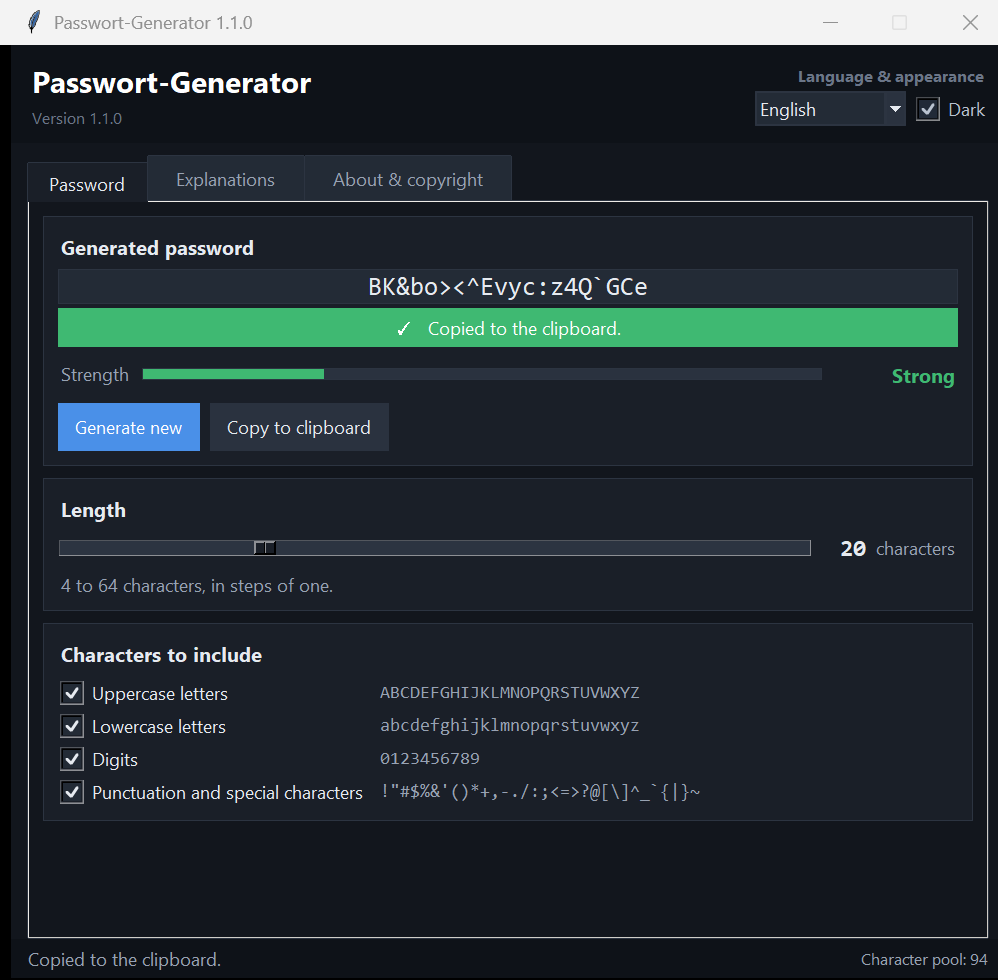
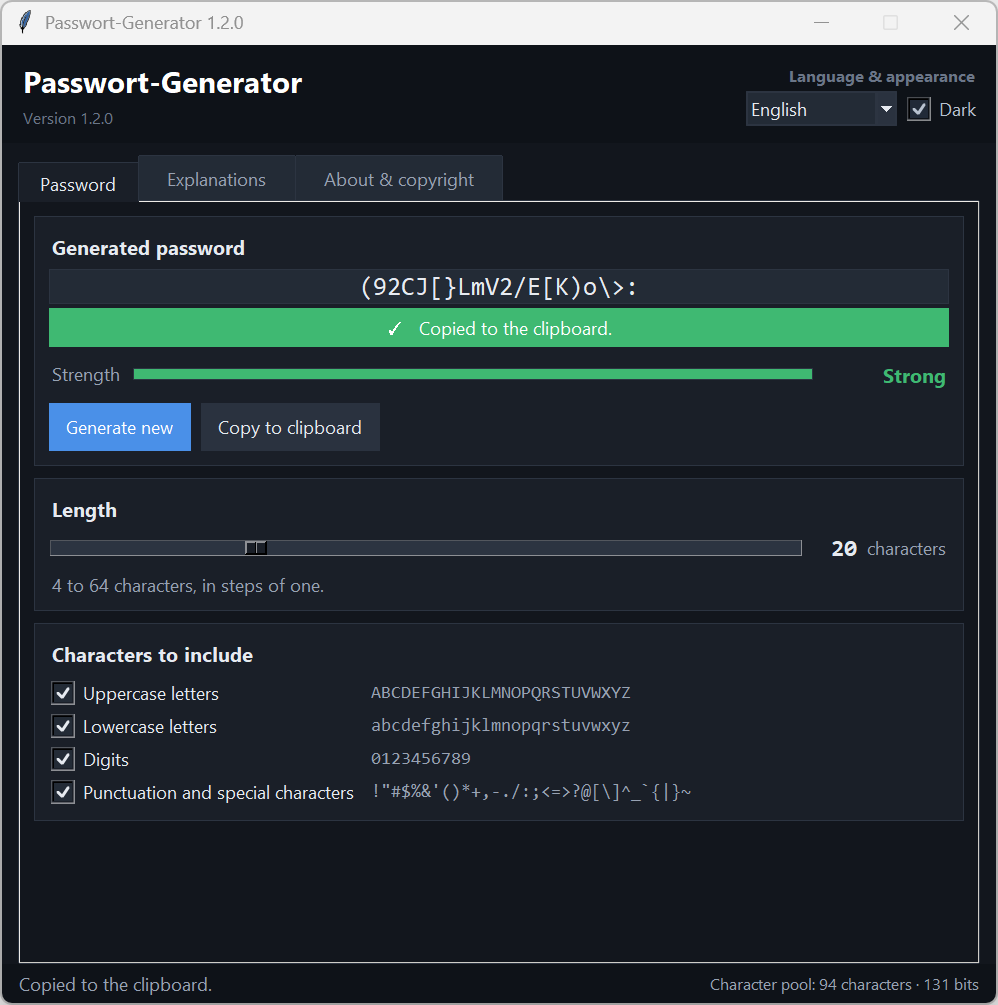
Stärkeanzeige rechnet in Bit
Bisher richtete sich die Anzeige allein nach der Länge. Grün begann bei 11
Zeichen - unabhängig davon, aus wie vielen Zeichen gewürfelt wurde. Elf
Ziffern sind aber nur 37 Bit und binnen Stunden durchprobiert, während elf
Zeichen aus allen vier Gruppen 72 Bit ergeben. Dieselbe grüne Zusage deckte
damit 37 bis 105 Bit ab.

Gemessen wird jetzt der Zufall im Passwort: Länge mal Logarithmus des
Zeichenvorrats. Rot unter 55 Bit, gelb bis 70 Bit, grün darüber. Die Grenzen
sind so gewählt, dass bei allen vier angehakten Gruppen dieselben Längen
herauskommen wie vorher - rot bis 8, gelb bei 9 und 10, grün ab 11. Nur
kleine Zeichenvorräte werden abgewertet.

Dabei fiel ein Fehler auf: Die Stärke wurde nur vom Schieberegler
aufgefrischt. Wer Haken wegnahm, bekam weiter die alte Bewertung zu sehen,
obwohl das Passwort schwächer wurde. Das erledigt jetzt eine Stelle, in die
beide hineinrufen.

Die Fußzeile nennt neben dem Zeichenvorrat die erreichten Bit, und der
Balken folgt ihnen statt der Länge - bei 11 Zeichen stand er bisher auf 12
Prozent und leuchtete trotzdem grün.

Changed region(s): [[0.0, 0.0, 1.0, 1.0], [0.3727, 0.6735, 0.6834, 0.8265], [0.8076, 0.0, 0.8387, 0.0306]]

diff --git a/tests/test_passwoerter.py b/tests/test_passwoerter.py
@@ -2,7 +2,11 @@
 
 from __future__ import annotations
 
+import math
+
 import pytest
+
+ALLE = ("gross", "klein", "ziffern", "sonder")
 
 
 def test_laenge_stimmt(pg):
@@ -60,11 +64,47 @@ def test_passwoerter_wiederholen_sich_nicht(pg):
     assert len(erzeugt) == 200
 
 
-@pytest.mark.parametrize("laenge, stufe", [
-    (4, "schwach"), (8, "schwach"), (9, "mittel"), (10, "mittel"), (11, "stark"), (64, "stark"),
+@pytest.mark.parametrize("laenge, schluessel, stufe", [
+    # Alle vier Gruppen - dieselben Grenzen wie vor der Umstellung auf Bit.
+    (4, ALLE, "schwach"), (8, ALLE, "schwach"), (9, ALLE, "mittel"),
+    (10, ALLE, "mittel"), (11, ALLE, "stark"), (64, ALLE, "stark"),
+    # Kleiner Zeichenvorrat: dieselbe Laenge wiegt weniger.
+    (11, ("ziffern",), "schwach"),               # 37 Bit
+    (16, ("ziffern",), "schwach"),               # 53 Bit
+    (17, ("ziffern",), "mittel"),                # 56 Bit
+    (22, ("ziffern",), "stark"),                 # 73 Bit
+    (11, ("klein",), "schwach"),                 # 52 Bit
+    (12, ("klein",), "mittel"),                  # 56 Bit
+    (15, ("klein",), "stark"),                   # 71 Bit
 ])
-def test_staerkestufen(pg, laenge, stufe):
-    assert pg.staerke_stufe(laenge) == stufe
+def test_staerkestufen(pg, laenge, schluessel, stufe):
+    gruppen = [g for g in pg.ZEICHENGRUPPEN if g.schluessel in schluessel]
+    assert pg.staerke_stufe(pg.staerke_bits(laenge, gruppen)) == stufe
+
+
+def test_bits_sind_laenge_mal_vorrat(pg):
+    """staerke_bits ist die Länge mal dem Logarithmus des Zeichenvorrats."""
+    for schluessel in (("ziffern",), ("gross", "klein"), ALLE):
+        gruppen = [g for g in pg.ZEICHENGRUPPEN if g.schluessel in schluessel]
+        vorrat = len(pg.vorrat_bilden(gruppen))
+        for laenge in (pg.MIN_LAENGE, 12, pg.MAX_LAENGE):
+            assert pg.staerke_bits(laenge, gruppen) == pytest.approx(
+                laenge * math.log2(vorrat))
+
+
+def test_weniger_gruppen_bedeuten_weniger_bit(pg):
+    """Gleiche Länge, kleinerer Vorrat: das Urteil muss nachgeben."""
+    alle = list(pg.ZEICHENGRUPPEN)
+    ziffern = [g for g in alle if g.schluessel == "ziffern"]
+    assert pg.staerke_bits(12, ziffern) < pg.staerke_bits(12, alle)
+    assert pg.staerke_stufe(pg.staerke_bits(12, alle)) == "stark"
+    assert pg.staerke_stufe(pg.staerke_bits(12, ziffern)) == "schwach"
+
+
+def test_ohne_zeichengruppe_keine_bits(pg):
+    """Ohne Haken gibt es nichts zu bewerten - und keinen Rechenfehler."""
+    assert pg.staerke_bits(16, []) == 0.0
+    assert pg.staerke_stufe(pg.staerke_bits(16, [])) == "schwach"
 
 
 def test_staerkefarben(pg):
@@ -79,7 +119,7 @@ def test_staerkefarben(pg):
 def test_grenzen(pg):
     assert (pg.MIN_LAENGE, pg.MAX_LAENGE) == (4, 64)
     assert pg.VORGABE_LAENGE == pg.MIN_LAENGE
-    assert pg.MIN_LAENGE <= pg.SCHWACH_BIS < pg.MITTEL_BIS < pg.MAX_LAENGE
+    assert 0 < pg.SCHWACH_BIS_BIT < pg.MITTEL_BIS_BIT < pg.BALKEN_VOLL_BIT
 
 
 def test_zeichengruppen_ueberschneiden_sich_nicht(pg):

diff --git a/tests/test_oberflaeche.py b/tests/test_oberflaeche.py
@@ -47,16 +47,34 @@ def test_erzeugen_und_kopieren(pg, fenster):
 
 def test_staerkeanzeige_folgt_der_laenge(pg, fenster):
     app = fenster.bauen()
-    for laenge in (pg.MIN_LAENGE, pg.SCHWACH_BIS, pg.SCHWACH_BIS + 1, pg.MITTEL_BIS,
-                   pg.MITTEL_BIS + 1, pg.MAX_LAENGE):
+    gruppen = app.gewaehlte_gruppen()
+    for laenge in (pg.MIN_LAENGE, 8, 9, 10, 11, pg.MAX_LAENGE):
         app.var_laenge.set(laenge)
         app._laenge_geaendert(sichern=False)
-        stufe = pg.staerke_stufe(laenge)
+        stufe = pg.staerke_stufe(pg.staerke_bits(laenge, gruppen))
         farbe = pg.THEMES[pg.CURRENT_THEME][pg.STAERKE_ROLLE[stufe]]
         assert app.balken.rolle == pg.STAERKE_ROLLE[stufe]
         assert str(app.staerke_text.cget("fg")) == farbe
         assert app.var_zahl.get() == str(laenge)
     assert app.balken.anteil == 1.0
+
+
+def test_staerkeanzeige_folgt_dem_zeichenvorrat(pg, fenster):
+    """Haken wegnehmen schwächt die Anzeige, obwohl die Länge bleibt."""
+    app = fenster.bauen(laenge=12)
+    assert app.staerke_stufe == "stark"
+    voller_balken = app.balken.anteil
+
+    for schluessel in ("gross", "klein", "sonder"):
+        app.var_gruppen[schluessel].set(False)
+    app._auswahl_geaendert(sichern=False)
+
+    assert app.staerke_stufe == "schwach"          # 12 Ziffern sind 40 Bit
+    assert round(app.staerke_bits) == 40
+    assert app.balken.rolle == pg.STAERKE_ROLLE["schwach"]
+    assert app.balken.anteil < voller_balken
+    assert "40" in app.var_vorrat.get()
+    assert "10" in app.var_vorrat.get()           # nur noch zehn Zeichen im Vorrat
 
 
 def test_ohne_zeichengruppe_kein_erzeugen(pg, fenster):

diff --git a/README.md b/README.md
@@ -14,8 +14,10 @@ zum nächsten Start.
 ## Was er kann
 
 - **Länge von 4 bis 64 Zeichen**, in Einerschritten am Schieberegler.
-- **Stärkeanzeige** als farbiger Balken: rot bis 8 Zeichen, gelb bei 9 und 10,
-  grün ab 11.
+- **Stärkeanzeige** als farbiger Balken. Gemessen wird der Zufall im Passwort
+  in Bit, also Länge und Zeichenvorrat zusammen: rot unter 55 Bit, gelb bis
+  70 Bit, grün darüber. Mit allen vier Zeichengruppen heißt das rot bis 8
+  Zeichen, gelb bei 9 und 10, grün ab 11 – aus Ziffern allein braucht es 22.
 - **Zeichenauswahl** per Haken – Großbuchstaben, Kleinbuchstaben, Ziffern,
   Satz- und Sonderzeichen. Jede angehakte Gruppe kommt mindestens einmal vor,
   solange die Länge dafür reicht; damit scheitert kein Passwort an einer
@@ -65,6 +67,11 @@ Python-Modul [`secrets`](https://docs.python.org/3/library/secrets.html), das
 für Passwörter und Schlüssel gedacht ist. Aus jeder angehakten Gruppe kommt
 zuerst ein Zeichen, der Rest wird aus dem gesamten Vorrat gezogen, und zum
 Schluss wird die Reihenfolge mit `secrets.randbelow` gemischt.
+
+Wie stark das Ergebnis ist, hängt an beidem: an der Länge und daran, aus wie
+vielen Zeichen gewürfelt wurde. Die Stärkeanzeige rechnet daraus den Zufall
+in Bit – Länge mal Logarithmus des Zeichenvorrats. Jedes Bit verdoppelt die
+Zahl der Möglichkeiten; die Fußzeile zeigt beide Zahlen.
 
 Das erzeugte Passwort wird nirgends gespeichert; es verschwindet mit dem
 Schließen des Fensters. In der Einstellungsdatei stehen nur Länge,

diff --git a/README.en.md b/README.en.md
@@ -13,7 +13,10 @@ English, light and dark, and remembers every setting until the next start.
 ## What it does
 
 - **Length from 4 to 64 characters**, in steps of one on the slider.
-- **Strength bar**: red up to 8 characters, yellow at 9 and 10, green from 11.
+- **Strength bar**. It measures the randomness in the password in bits, so
+  length and character pool together: red below 55 bits, yellow up to 70
+  bits, green above. With all four groups ticked that means red up to 8
+  characters, yellow at 9 and 10, green from 11 – digits alone need 22.
 - **Character selection** by tick box – uppercase letters, lowercase letters,
   digits, punctuation and special characters. Every ticked group appears at
   least once as long as the length allows, so a password will not be rejected
@@ -62,6 +65,11 @@ Python's [`secrets`](https://docs.python.org/3/library/secrets.html) module,
 which is meant for passwords and keys. One character comes from each ticked
 group first, the rest is drawn from the whole pool, and finally the order is
 shuffled with `secrets.randbelow`.
+
+How strong the result is depends on both the length and how many characters
+it was drawn from. The strength bar turns that into bits of randomness –
+length times the logarithm of the character pool. Every bit doubles the
+number of possibilities; the footer shows both numbers.
 
 The generated password is never written down; it is gone once the window
 closes. The settings file only holds length, character selection, language,

diff --git a/CHANGELOG.md b/CHANGELOG.md
@@ -3,6 +3,23 @@
 Das Format folgt [Keep a Changelog](https://keepachangelog.com/de/1.1.0/),
 die Versionsnummern der [semantischen Versionierung](https://semver.org/lang/de/).
 
+## [1.2.0] – 2026-10-11
+
+### Geändert
+
+- Die Stärkeanzeige bewertet jetzt den Zufall im Passwort in Bit statt
+  allein die Länge. Bisher war alles ab 11 Zeichen grün, egal aus wie
+  vielen Zeichen gewürfelt wurde – 11 Ziffern (37 Bit) sahen damit so
+  stark aus wie 11 Zeichen aus allen vier Gruppen (72 Bit). Rot ist jetzt
+  alles unter 55 Bit, gelb bis 70 Bit, grün darüber. Mit allen vier
+  Gruppen bleiben die Grenzen dieselben wie vorher – rot bis 8 Zeichen,
+  gelb bei 9 und 10, grün ab 11; kleine Zeichenvorräte werden aber nicht
+  mehr zu gut bewertet. Aus Ziffern allein braucht es nun 22 Zeichen für
+  grün.
+- Die Fußzeile nennt neben dem Zeichenvorrat auch die erreichten Bit, und
+  der Balken folgt ihnen: Er ist bei 100 Bit voll, nicht mehr erst bei 64
+  Zeichen. Der Reiter „Erklärungen“ beschreibt die neuen Grenzen.
+
 ## [1.1.0] – 2026-09-17
 
 ### Hinzugefügt

diff --git a/SECURITY.md b/SECURITY.md
@@ -19,7 +19,7 @@ Gepflegt wird jeweils die neueste veröffentlichte Version.
 
 | Version | Unterstützt |
 |---|---|
-| 1.1.x | ja |
+| 1.2.x | ja |
 | älter | nein |
 
 ## Wie das Programm mit Passwörtern umgeht
